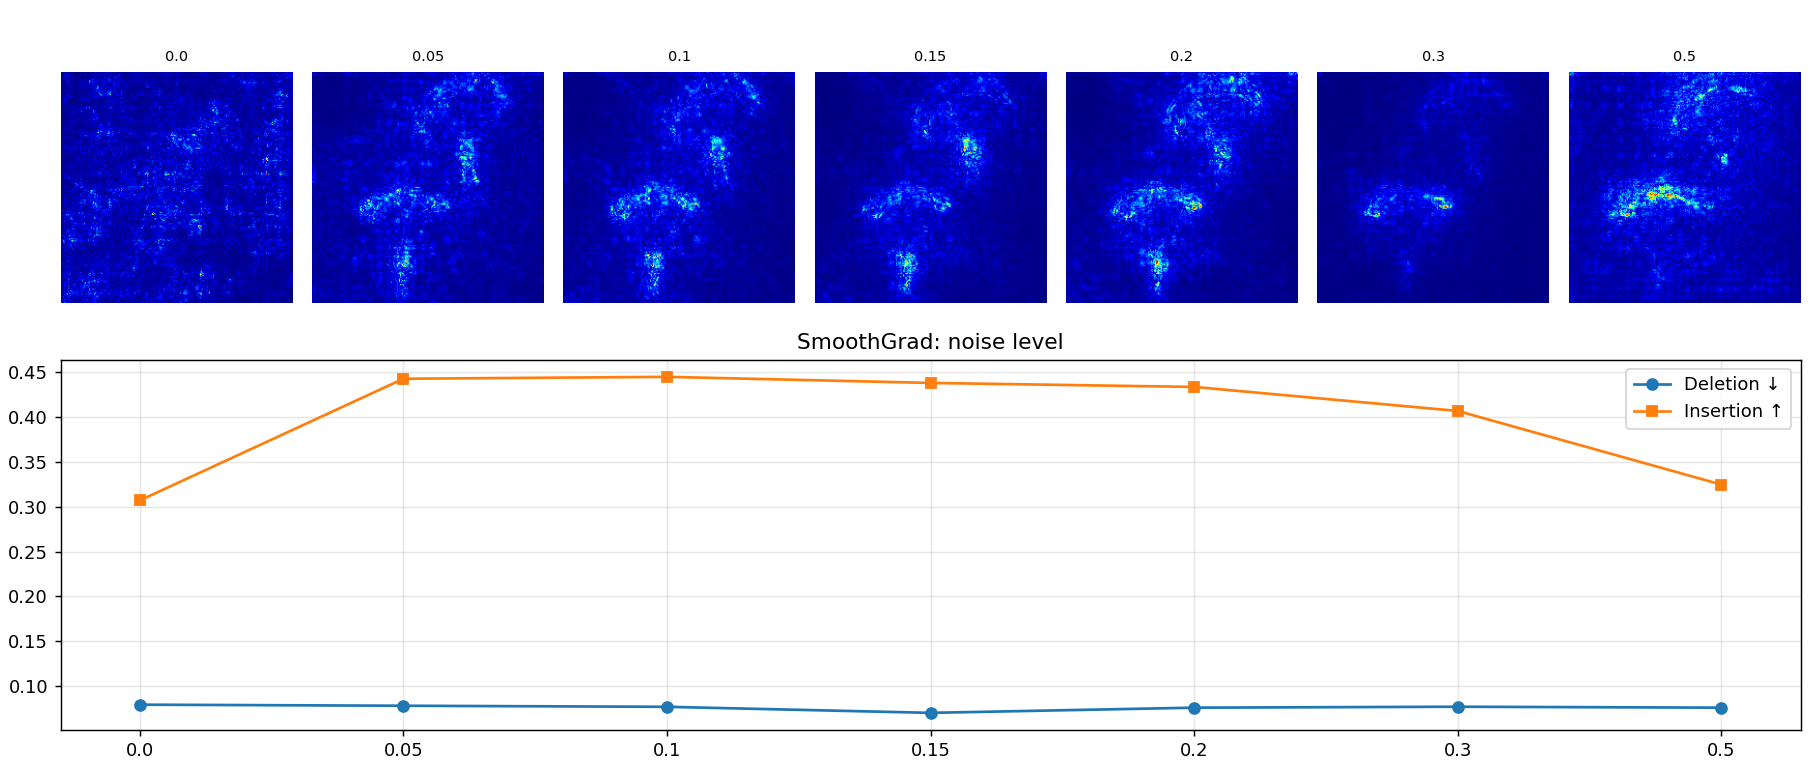
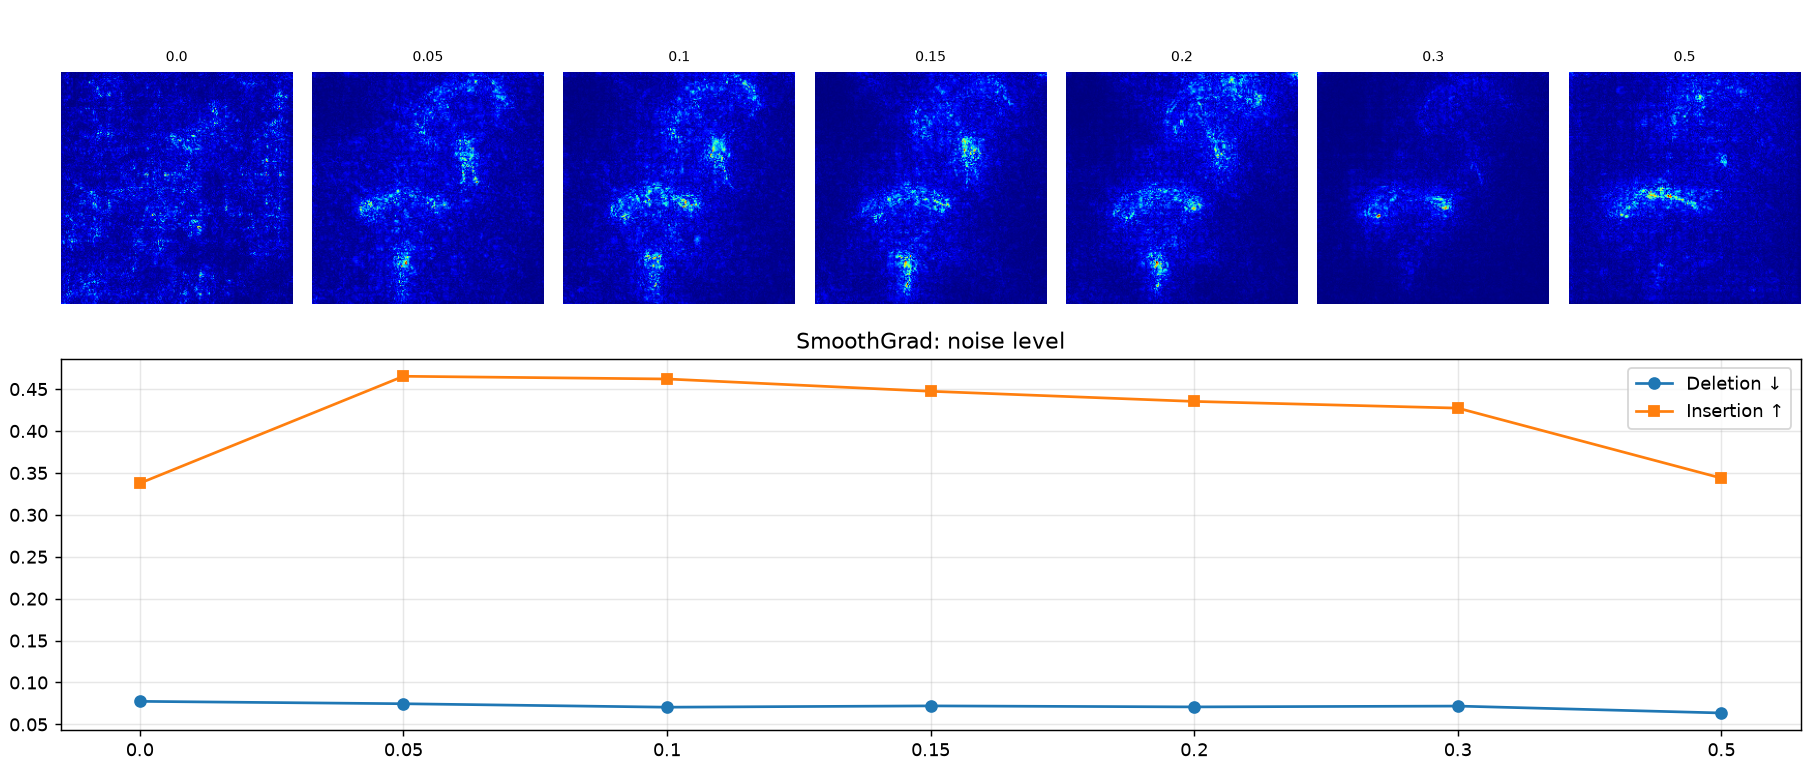
Add files via upload

diff --git a/outputs/metrics.md b/outputs/metrics.md
@@ -1,37 +1,37 @@
-## Main results (resnet50, 200 images)
+## Main results (resnet50, 64 images)
 | Method | Deletion ↓ | Insertion ↑ | Ins − Del ↑ | sec / 100 img |
 |---|---|---|---|---|
-| Random | 0.1119 | 0.2163 | 0.1044 | 0.00 |
-| Vanilla gradient | 0.0861 | 0.2884 | 0.2023 | 0.76 |
-| SmoothGrad (mean) | 0.0601 | 0.4241 | 0.3641 | 37.91 |
-| SmoothGrad (abs) | 0.0879 | 0.5011 | 0.4133 | 38.00 |
-| Grad-CAM | 0.1133 | 0.5464 | 0.4331 | 0.37 |
-| Smooth Grad-CAM | 0.1372 | 0.5080 | 0.3708 | 18.37 |
+| Random | 0.1087 | 0.2313 | 0.1226 | 0.00 |
+| Vanilla gradient | 0.0731 | 0.3194 | 0.2463 | 2.94 |
+| SmoothGrad (mean) | 0.0542 | 0.4584 | 0.4042 | 72.37 |
+| SmoothGrad (abs) | 0.0757 | 0.5393 | 0.4636 | 72.51 |
+| Grad-CAM | 0.1136 | 0.5906 | 0.4770 | 1.42 |
+| Smooth Grad-CAM | 0.1415 | 0.5464 | 0.4050 | 35.85 |
 
 ## Ablation: noise level
 | Method | Deletion ↓ | Insertion ↑ | Ins − Del ↑ | sec / 100 img |
 |---|---|---|---|---|
-| 0.0 | 0.0797 | 0.3069 | 0.2272 | 38.46 |
-| 0.05 | 0.0785 | 0.4422 | 0.3637 | 38.41 |
-| 0.1 | 0.0773 | 0.4443 | 0.3670 | 38.16 |
-| 0.15 | 0.0705 | 0.4375 | 0.3670 | 38.01 |
-| 0.2 | 0.0763 | 0.4331 | 0.3568 | 38.03 |
-| 0.3 | 0.0774 | 0.4063 | 0.3290 | 38.06 |
-| 0.5 | 0.0763 | 0.3244 | 0.2481 | 38.04 |
+| 0.0 | 0.0775 | 0.3377 | 0.2602 | 121.93 |
+| 0.05 | 0.0747 | 0.4653 | 0.3906 | 121.93 |
+| 0.1 | 0.0705 | 0.4620 | 0.3915 | 121.95 |
+| 0.15 | 0.0721 | 0.4474 | 0.3753 | 121.94 |
+| 0.2 | 0.0709 | 0.4353 | 0.3644 | 121.94 |
+| 0.3 | 0.0719 | 0.4273 | 0.3554 | 121.93 |
+| 0.5 | 0.0636 | 0.3438 | 0.2801 | 121.92 |
 
 ## Ablation: sample count
 | Method | Deletion ↓ | Insertion ↑ | Ins − Del ↑ | sec / 100 img |
 |---|---|---|---|---|
-| 1 | 0.0705 | 0.3778 | 0.3074 | 0.72 |
-| 5 | 0.0631 | 0.4012 | 0.3380 | 3.84 |
-| 10 | 0.0612 | 0.4045 | 0.3433 | 7.59 |
-| 25 | 0.0622 | 0.4192 | 0.3571 | 19.04 |
-| 50 | 0.0733 | 0.4328 | 0.3595 | 38.13 |
+| 1 | 0.0738 | 0.4237 | 0.3499 | 4.91 |
+| 5 | 0.0633 | 0.4391 | 0.3759 | 24.42 |
+| 10 | 0.0650 | 0.4420 | 0.3770 | 48.80 |
+| 25 | 0.0796 | 0.4581 | 0.3785 | 121.92 |
+| 50 | 0.0843 | 0.4603 | 0.3760 | 243.80 |
 
 ## Ablation: Grad-CAM layer
 | Method | Deletion ↓ | Insertion ↑ | Ins − Del ↑ | sec / 100 img |
 |---|---|---|---|---|
-| layer1 | 0.1514 | 0.2429 | 0.0914 | 0.61 |
-| layer2 | 0.1193 | 0.2506 | 0.1314 | 0.56 |
-| layer3 | 0.1085 | 0.3523 | 0.2438 | 0.44 |
-| layer4 | 0.1232 | 0.5934 | 0.4702 | 0.36 |
+| layer1 | 0.1388 | 0.2339 | 0.0951 | 4.02 |
+| layer2 | 0.1099 | 0.2846 | 0.1747 | 3.30 |
+| layer3 | 0.1219 | 0.3840 | 0.2621 | 2.70 |
+| layer4 | 0.1545 | 0.5597 | 0.4051 | 2.40 |
